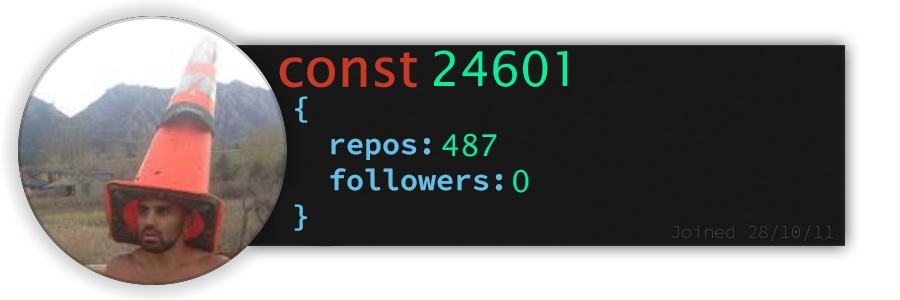
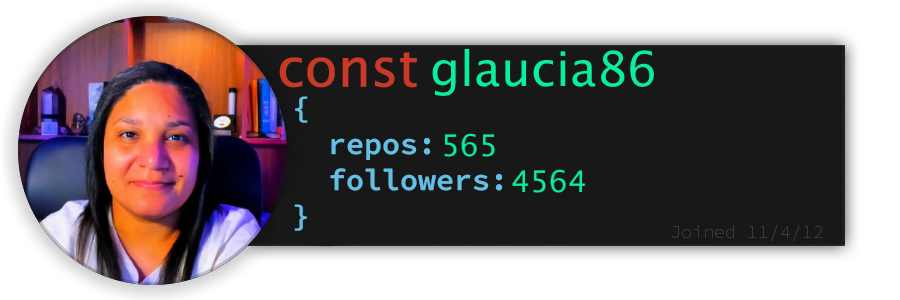
Generated readme

diff --git a/README.md b/README.md
@@ -10,50 +10,50 @@
 * Nícolas Gabriel, 21 years
 * Full Stack Programmer
 * Currently studying Product Management
-* 6 Years, 0 Months and 16 Days since I started programming
+* 6 Years, 0 Months and 17 Days since I started programming
 
 ## **Skills wall:**
 
-<p align="left"><img src="https://img.shields.io/badge/javascript-F73C7B?logo=javascript&style=for-the-badge&logoColor=F2F2F2"/>
-<img src="https://img.shields.io/badge/bootstrap-4D4577?logo=bootstrap&style=for-the-badge&logoColor=F2F2F2"/>
-<img src="https://img.shields.io/badge/flask-393359?logo=flask&style=for-the-badge&logoColor=F2F2F2"/>
-<img src="https://img.shields.io/badge/typescript-F73C7B?logo=typescript&style=for-the-badge&logoColor=F2F2F2"/>
-<img src="https://img.shields.io/badge/github%20actions-F73C7B?logo=github%20actions&style=for-the-badge&logoColor=F2F2F2"/>
-<img src="https://img.shields.io/badge/css3-F73C7B?logo=css3&style=for-the-badge&logoColor=F2F2F2"/>
-<img src="https://img.shields.io/badge/storybook-4D4577?logo=storybook&style=for-the-badge&logoColor=F2F2F2"/>
-<img src="https://img.shields.io/badge/heroku-4D4577?logo=heroku&style=for-the-badge&logoColor=F2F2F2"/>
-<img src="https://img.shields.io/badge/ant--design-F73C7B?logo=ant-design&style=for-the-badge&logoColor=F2F2F2"/>
-<img src="https://img.shields.io/badge/tailwindcss-F73C7B?logo=tailwindcss&style=for-the-badge&logoColor=F2F2F2"/>
-<img src="https://img.shields.io/badge/graphql-393359?logo=graphql&style=for-the-badge&logoColor=F2F2F2"/>
-<img src="https://img.shields.io/badge/netlify-393359?logo=netlify&style=for-the-badge&logoColor=F2F2F2"/>
-<img src="https://img.shields.io/badge/vercel-393359?logo=vercel&style=for-the-badge&logoColor=F2F2F2"/>
-<img src="https://img.shields.io/badge/photoshop-4D4577?logo=adobe-photoshop&style=for-the-badge&logoColor=F2F2F2"/>
+<p align="left"><img src="https://img.shields.io/badge/shell%20script-393359?logo=gnu-bash&style=for-the-badge&logoColor=F2F2F2"/>
 <img src="https://img.shields.io/badge/node.js-F73C7B?logo=node.js&style=for-the-badge&logoColor=F2F2F2"/>
-<img src="https://img.shields.io/badge/github-393359?logo=github&style=for-the-badge&logoColor=F2F2F2"/>
-<img src="https://img.shields.io/badge/github%20pages-393359?logo=github&style=for-the-badge&logoColor=F2F2F2"/>
-<img src="https://img.shields.io/badge/fastapi-F73C7B?logo=fastapi&style=for-the-badge&logoColor=F2F2F2"/>
-<img src="https://img.shields.io/badge/sass-393359?logo=sass&style=for-the-badge&logoColor=F2F2F2"/>
-<img src="https://img.shields.io/badge/markdown-4D4577?logo=markdown&style=for-the-badge&logoColor=F2F2F2"/>
-<img src="https://img.shields.io/badge/sqlite-393359?logo=sqlite&style=for-the-badge&logoColor=F2F2F2"/>
-<img src="https://img.shields.io/badge/git-F73C7B?logo=git&style=for-the-badge&logoColor=F2F2F2"/>
-<img src="https://img.shields.io/badge/mongodb-393359?logo=mongodb&style=for-the-badge&logoColor=F2F2F2"/>
-<img src="https://img.shields.io/badge/jira-4D4577?logo=jira&style=for-the-badge&logoColor=F2F2F2"/>
-<img src="https://img.shields.io/badge/react-F73C7B?logo=react&style=for-the-badge&logoColor=F2F2F2"/>
-<img src="https://img.shields.io/badge/strapi-393359?logo=strapi&style=for-the-badge&logoColor=F2F2F2"/>
-<img src="https://img.shields.io/badge/firebase-4D4577?logo=firebase&style=for-the-badge&logoColor=F2F2F2"/>
-<img src="https://img.shields.io/badge/react%20native-4D4577?logo=react&style=for-the-badge&logoColor=F2F2F2"/>
-<img src="https://img.shields.io/badge/express.js-4D4577?logo=express&style=for-the-badge&logoColor=F2F2F2"/>
-<img src="https://img.shields.io/badge/visual%20studio%20code-393359?logo=visual%20studio%20code&style=for-the-badge&logoColor=F2F2F2"/>
-<img src="https://img.shields.io/badge/figma-4D4577?logo=figma&style=for-the-badge&logoColor=F2F2F2"/>
-<img src="https://img.shields.io/badge/chakra-393359?logo=chakraui&style=for-the-badge&logoColor=F2F2F2"/>
-<img src="https://img.shields.io/badge/styled%20components-4D4577?logo=styled%20components&style=for-the-badge&logoColor=F2F2F2"/>
-<img src="https://img.shields.io/badge/jquery-393359?logo=jquery&style=for-the-badge&logoColor=F2F2F2"/>
-<img src="https://img.shields.io/badge/python-F73C7B?logo=python&style=for-the-badge&logoColor=F2F2F2"/>
-<img src="https://img.shields.io/badge/html5-4D4577?logo=html5&style=for-the-badge&logoColor=F2F2F2"/>
-<img src="https://img.shields.io/badge/shell%20script-393359?logo=gnu-bash&style=for-the-badge&logoColor=F2F2F2"/>
-<img src="https://img.shields.io/badge/jest-393359?logo=jest&style=for-the-badge&logoColor=F2F2F2"/>
+<img src="https://img.shields.io/badge/styled%20components-393359?logo=styled%20components&style=for-the-badge&logoColor=F2F2F2"/>
+<img src="https://img.shields.io/badge/jira-393359?logo=jira&style=for-the-badge&logoColor=F2F2F2"/>
 <img src="https://img.shields.io/badge/docker-F73C7B?logo=docker&style=for-the-badge&logoColor=F2F2F2"/>
-<img src="https://img.shields.io/badge/npm-4D4577?logo=npm&style=for-the-badge&logoColor=F2F2F2"/></p>
+<img src="https://img.shields.io/badge/python-F73C7B?logo=python&style=for-the-badge&logoColor=F2F2F2"/>
+<img src="https://img.shields.io/badge/ant--design-F73C7B?logo=ant-design&style=for-the-badge&logoColor=F2F2F2"/>
+<img src="https://img.shields.io/badge/jquery-393359?logo=jquery&style=for-the-badge&logoColor=F2F2F2"/>
+<img src="https://img.shields.io/badge/css3-F73C7B?logo=css3&style=for-the-badge&logoColor=F2F2F2"/>
+<img src="https://img.shields.io/badge/bootstrap-4D4577?logo=bootstrap&style=for-the-badge&logoColor=F2F2F2"/>
+<img src="https://img.shields.io/badge/tailwindcss-F73C7B?logo=tailwindcss&style=for-the-badge&logoColor=F2F2F2"/>
+<img src="https://img.shields.io/badge/flask-393359?logo=flask&style=for-the-badge&logoColor=F2F2F2"/>
+<img src="https://img.shields.io/badge/html5-393359?logo=html5&style=for-the-badge&logoColor=F2F2F2"/>
+<img src="https://img.shields.io/badge/git-F73C7B?logo=git&style=for-the-badge&logoColor=F2F2F2"/>
+<img src="https://img.shields.io/badge/strapi-4D4577?logo=strapi&style=for-the-badge&logoColor=F2F2F2"/>
+<img src="https://img.shields.io/badge/express.js-4D4577?logo=express&style=for-the-badge&logoColor=F2F2F2"/>
+<img src="https://img.shields.io/badge/jest-393359?logo=jest&style=for-the-badge&logoColor=F2F2F2"/>
+<img src="https://img.shields.io/badge/heroku-4D4577?logo=heroku&style=for-the-badge&logoColor=F2F2F2"/>
+<img src="https://img.shields.io/badge/github%20pages-4D4577?logo=github&style=for-the-badge&logoColor=F2F2F2"/>
+<img src="https://img.shields.io/badge/visual%20studio%20code-4D4577?logo=visual%20studio%20code&style=for-the-badge&logoColor=F2F2F2"/>
+<img src="https://img.shields.io/badge/mongodb-393359?logo=mongodb&style=for-the-badge&logoColor=F2F2F2"/>
+<img src="https://img.shields.io/badge/photoshop-4D4577?logo=adobe-photoshop&style=for-the-badge&logoColor=F2F2F2"/>
+<img src="https://img.shields.io/badge/github-4D4577?logo=github&style=for-the-badge&logoColor=F2F2F2"/>
+<img src="https://img.shields.io/badge/netlify-4D4577?logo=netlify&style=for-the-badge&logoColor=F2F2F2"/>
+<img src="https://img.shields.io/badge/sqlite-4D4577?logo=sqlite&style=for-the-badge&logoColor=F2F2F2"/>
+<img src="https://img.shields.io/badge/chakra-4D4577?logo=chakraui&style=for-the-badge&logoColor=F2F2F2"/>
+<img src="https://img.shields.io/badge/javascript-F73C7B?logo=javascript&style=for-the-badge&logoColor=F2F2F2"/>
+<img src="https://img.shields.io/badge/fastapi-F73C7B?logo=fastapi&style=for-the-badge&logoColor=F2F2F2"/>
+<img src="https://img.shields.io/badge/react-F73C7B?logo=react&style=for-the-badge&logoColor=F2F2F2"/>
+<img src="https://img.shields.io/badge/typescript-F73C7B?logo=typescript&style=for-the-badge&logoColor=F2F2F2"/>
+<img src="https://img.shields.io/badge/figma-4D4577?logo=figma&style=for-the-badge&logoColor=F2F2F2"/>
+<img src="https://img.shields.io/badge/graphql-393359?logo=graphql&style=for-the-badge&logoColor=F2F2F2"/>
+<img src="https://img.shields.io/badge/markdown-393359?logo=markdown&style=for-the-badge&logoColor=F2F2F2"/>
+<img src="https://img.shields.io/badge/sass-4D4577?logo=sass&style=for-the-badge&logoColor=F2F2F2"/>
+<img src="https://img.shields.io/badge/npm-4D4577?logo=npm&style=for-the-badge&logoColor=F2F2F2"/>
+<img src="https://img.shields.io/badge/react%20native-4D4577?logo=react&style=for-the-badge&logoColor=F2F2F2"/>
+<img src="https://img.shields.io/badge/vercel-393359?logo=vercel&style=for-the-badge&logoColor=F2F2F2"/>
+<img src="https://img.shields.io/badge/storybook-393359?logo=storybook&style=for-the-badge&logoColor=F2F2F2"/>
+<img src="https://img.shields.io/badge/firebase-393359?logo=firebase&style=for-the-badge&logoColor=F2F2F2"/>
+<img src="https://img.shields.io/badge/github%20actions-F73C7B?logo=github%20actions&style=for-the-badge&logoColor=F2F2F2"/></p>
 
 ## **Recent projects:**
 
@@ -79,7 +79,7 @@
 
 *Showcases a random GitHub follower here everyday*
 
-<a href="https://github.com/24601" alt="Basit Mustafa"><img style="height:150px;" src=./src/resources/images/randomFollower.png alt="Follower of the day"/></a>
+<a href="https://github.com/glaucia86" alt="Glaucia Lemos"><img style="height:150px;" src=./src/resources/images/randomFollower.png alt="Follower of the day"/></a>
 
 <hr>
 
